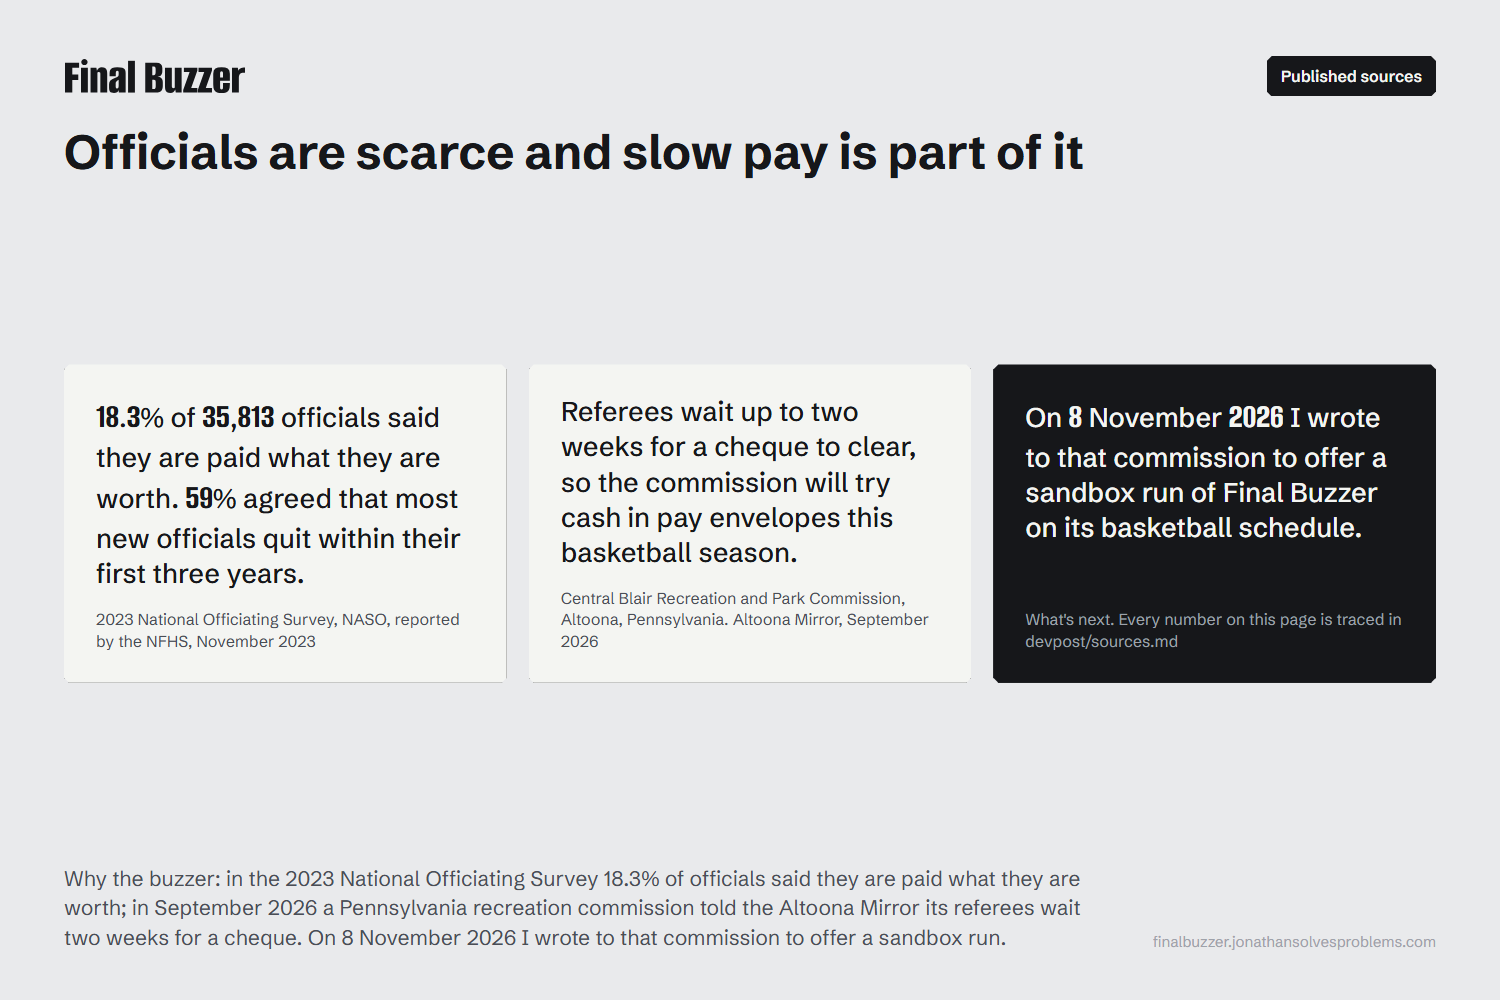
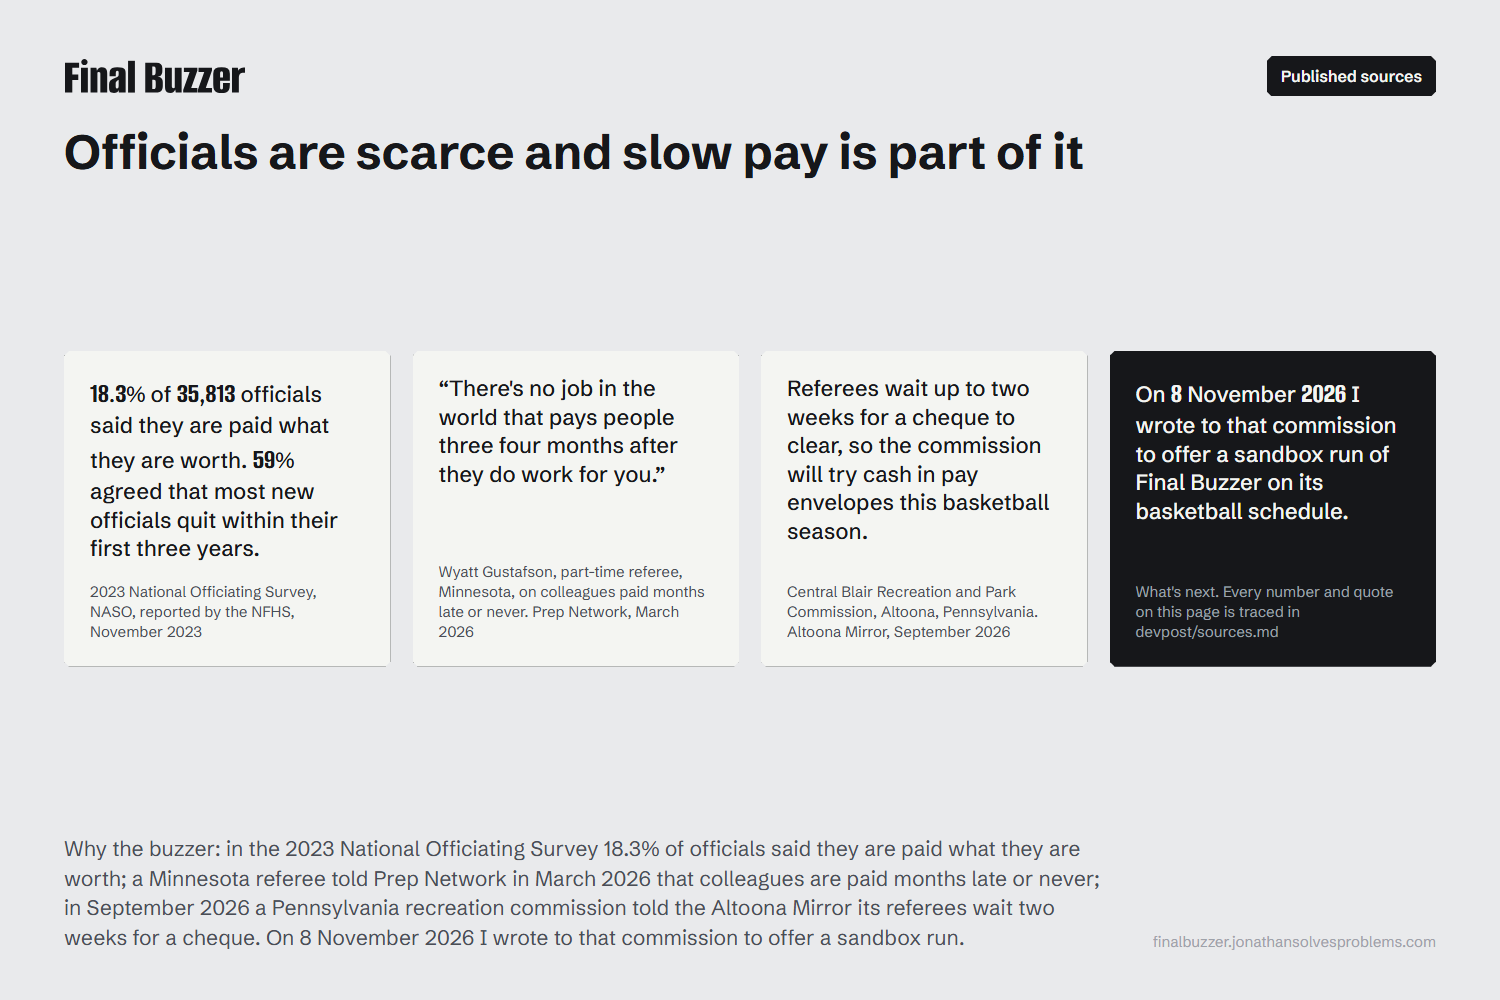
A referee's own words on late pay (Prep Network, March 2026) in the write-up, the sources and the gallery; Refr Sports named among the incumbents

Changed region(s): [[0.0613, 0.341, 0.9813, 0.682], [0.0307, 0.837, 0.736, 0.961]]

diff --git a/devpost/sources.md b/devpost/sources.md
@@ -38,4 +38,6 @@ disagrees. Placeholders are marked as such in the data files and on the board.
 
 - National Association of Sports Officials, 2023 National Officiating Survey, released 2 October 2023 (35,813 respondents, average age 56.68): https://www.naso.org/35813-individuals-respond-to-national-officiating-survey/. The pay and attrition figures as reported by the National Federation of State High School Associations, "NASO Survey Indicates Concerns with Sportsmanship, Shortage of Officials", 8 November 2023: 0.4% said they are overpaid, 18.3% paid what they are worth, about 21% underpaid and dissatisfied, 60% underpaid but accepting of budget constraints; nearly 59% agreed that "most new officials quit within the first 1-3 years". https://www.nfhs.org/stories/naso-survey-indicates-concerns-with-sportsmanship-shortage-of-officials
 - The products named beside Final Buzzer, each from its own public page (read 9 November 2026): SportsEngine lists "Online registration & payments" among its products (https://www.sportsengine.com/); LeagueApps' payments page is about helping youth sports organizations "collect registration payments" through invoices and installment plans (https://leagueapps.com/youth-sports-management-platform/payments/); assignr describes itself as "Referee Scheduling Software" (https://www.assignr.com/); ArbiterPay, per the ArbiterSports article on Wikipedia, "facilitates secure, automated payments to officials" with electronic disbursement, audit tracking and reporting (https://en.wikipedia.org/wiki/ArbiterSports; arbitersports.com refused automated reads). None of those pages describes a decision taken at the final buzzer from the game sheet and PayPal's record, which is the only claim the write-up makes about them.
+- Prep Network, "Meet the Referee Fighting for the Future of Youth Sports Officials", 3 March 2026 (no byline on the page). Wyatt Gustafson, a part-time referee in Minnesota (youth baseball and softball umpire, hockey referee) and co-founder of Refr Sports, saw colleagues "get paid for assignments months late, and sometimes never get paid at all"; "There's no job in the world that pays people three four months after they do work for you"; softball umpires "still haven't been paid for tournament games that happened in October". The same article says Refr Sports pays officials "within seven days of their assignment", which is why it is named among the incumbents. https://prepnetwork.com/?p=9289
+- TMJ4 (Milwaukee), "MPS athletics: TMJ4 investigation reveals sports officials are being paid late or not at all", 22 October 2024, reporter Jenna Rae. Curtis Rediske, an MPS sports official, timer and scorekeeper for more than a decade, had not been paid for games he worked on 5 September, 2 October and 4 October 2024; the district said it was investigating. Kept here as a second dated case, not quoted on the page. https://www.tmj4.com/news/milwaukee-county/mps-athletics-tmj4-investigation-reveals-sports-officials-are-being-paid-late-or-not-at-all
 - William Kibler, "Central Blair Recreation and Park Commission to try paying refs in cash", Altoona Mirror, September 2026. Referees wait up to two weeks for their cheques to be deposited; fees are $20 to $24 per event by level; one cheque per event day will be split into pay envelopes for the coming basketball season, with results due in March. Executive director Mike Hofer called cash "a big red flag" the commission would hedge with safeguards, and said it has been "struggling" to get officials, who are "aging out and stepping away". https://www.altoonamirror.com/news/local-news/2026/09/central-blair-recreation-and-park-commission-to-try-paying-refs-in-cash

diff --git a/README.md b/README.md
@@ -10,7 +10,7 @@ Final Buzzer is the association's treasurer as an agent. When a game goes final 
 
 Sam and Northside Youth Basketball are a labelled composite. The role is real: one volunteer who scores games from a phone and settles the money afterwards. The association, its venues and its teams are not real; the tournament's shape follows a real 88-game invitational.
 
-Why the buzzer: officials are scarce and leaving. In the 2023 National Officiating Survey (35,813 officials, NASO, reported by the NFHS in November 2023), 18.3% said they are paid what they are worth, and 59% agreed that most new officials quit within their first three years. Slow pay is part of it. In September 2026 the Central Blair Recreation and Park Commission in Altoona, Pennsylvania, told the Altoona Mirror that its referees wait up to two weeks for a cheque to clear, and that it will try cash in pay envelopes this basketball season to recruit and retain them, a step its executive director called "a big red flag" to be hedged with safeguards. The tools an association can buy today each do one side of this: SportsEngine and LeagueApps collect registration payments from families and teams, assignr schedules the referees, and ArbiterPay sends officials their pay once the association has approved it. As far as their public pages say, none of them reads the game sheet and PayPal's own record at the final buzzer and decides. Every number and product claim in this file is traced in [devpost/sources.md](devpost/sources.md).
+Why the buzzer: officials are scarce and leaving. In the 2023 National Officiating Survey (35,813 officials, NASO, reported by the NFHS in November 2023), 18.3% said they are paid what they are worth, and 59% agreed that most new officials quit within their first three years. Slow pay is part of it. Prep Network reported in March 2026 that Wyatt Gustafson, a part-time referee in Minnesota, saw colleagues "get paid for assignments months late, and sometimes never get paid at all"; in his words, "There's no job in the world that pays people three four months after they do work for you." In September 2026 the Central Blair Recreation and Park Commission in Altoona, Pennsylvania, told the Altoona Mirror that its referees wait up to two weeks for a cheque to clear, and that it will try cash in pay envelopes this basketball season to recruit and retain them, a step its executive director called "a big red flag" to be hedged with safeguards. The tools an association can buy today each do one side of this: SportsEngine and LeagueApps collect registration payments from families and teams, assignr schedules the referees, and ArbiterPay sends officials their pay once the association has approved it; Refr Sports, which that referee went on to co-found, assigns games and pays within seven days of the assignment. As far as their public pages say, none of them reads the game sheet and PayPal's own record at the final buzzer and decides. Every number and product claim in this file is traced in [devpost/sources.md](devpost/sources.md).
 
 Built for the PayPal AI Hackathon, November 2026, by [Jonathan Andrei](https://jonathansolvesproblems.com).
 

diff --git a/devpost/gallery/README.md b/devpost/gallery/README.md
@@ -13,4 +13,4 @@ Rendered by `tmp/slides/build.py` from live captures and the results files. Uplo
 9. **09-replan.png**: Sunday, Gym E closed from 9:00, 10 games affected. The agent moved 9, each move checked in code against the schedule's rules (team rest, playoff order, joined courts sharing a floor), and refunded the two teams of the game that could not be played, $175 each, through PayPal Payouts. results/replan.json.
 10. **10-reconcile.png**: Reconciliation against PayPal: all 99 payout items the ledger holds appear in PayPal's transaction search, matched by item id, across 30 games and the evening batches: $3,795 CAD confirmed, $31.68 in payout fees, nothing missing.
 11. **11-ablations.png**: Two comparisons committed in the repository: PayPal switched off (the agent held all 34 games and paid nobody) and a fixed rule in place of the model (the once-a-day folds lost). A script reads every figure in the write-up back from the results and fails when one disagrees.
-12. **12-why.png**: Why the buzzer: in the 2023 National Officiating Survey 18.3% of officials said they are paid what they are worth; in September 2026 a Pennsylvania recreation commission told the Altoona Mirror its referees wait two weeks for a cheque. On 8 November 2026 I wrote to that commission to offer a sandbox run.
+12. **12-why.png**: Why the buzzer: in the 2023 National Officiating Survey 18.3% of officials said they are paid what they are worth; a Minnesota referee told Prep Network in March 2026 that colleagues are paid months late or never; in September 2026 a Pennsylvania recreation commission told the Altoona Mirror its referees wait two weeks for a cheque. On 8 November 2026 I wrote to that commission to offer a sandbox run.
